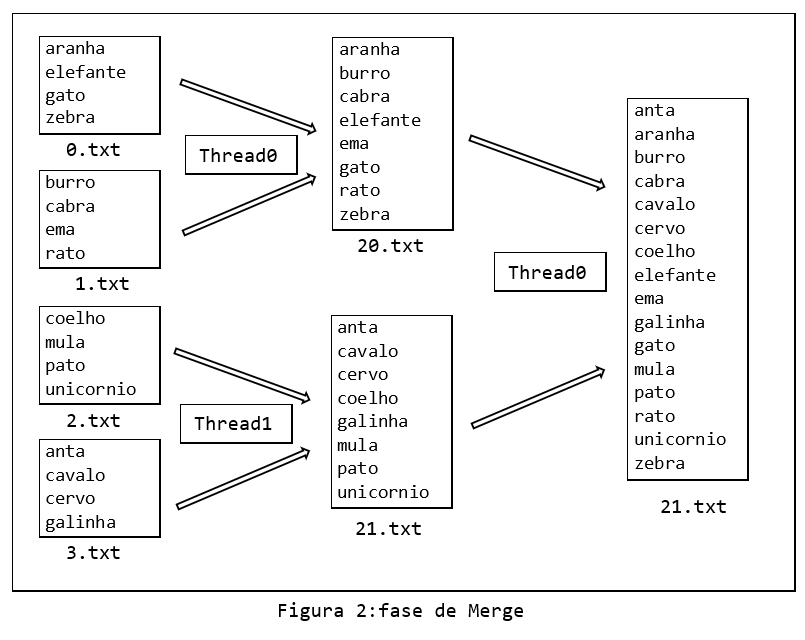
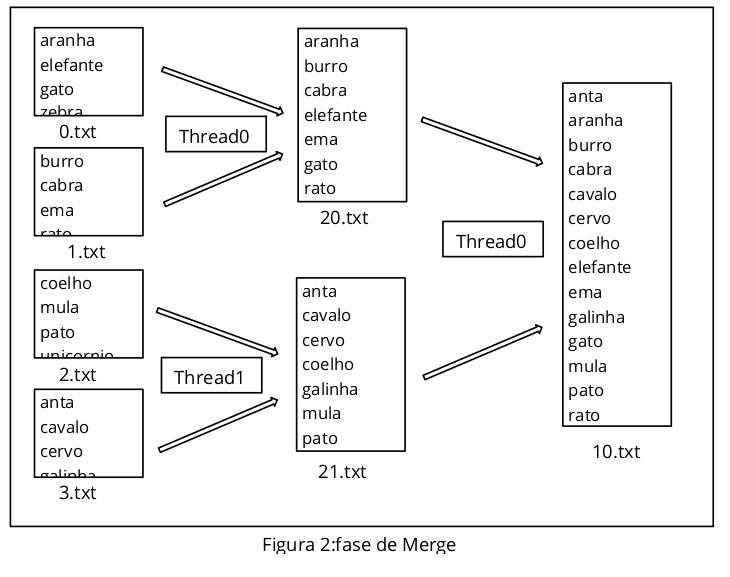
Lab-03 v3

Changed region(s): [[0.0, 0.0, 0.9945, 0.9671]]

diff --git a/material/labs/threads.md b/material/labs/threads.md
@@ -145,7 +145,9 @@ para realizar essa fase você deverá ter finalizado a fase de **`Sort`**, pois 
 
 * As threads nessa fase terão como entrada os ponteiros dos arquivos gerados na fase anterior. No programa   **`sort-merge.o`** poderá ver que os arquivos são passadas para as threads através de uma estrutura (`struct`).
 
-* Cada thread receberá dois ponteiro de arquivos da fase anterior e fará o merge (intercalação) dos dois arquivos e gerando um terceiro arquivo que será retornado para a função principal (**`main()`**) que usará esse arquivo para próxima iteração.
+* Cada thread receberá dois ponteiro de arquivos da fase anterior e fará o merge (intercalação) dos dois arquivos e gerando um terceiro arquivo que será retornado para a função principal (**`main()`**),  que usará esse arquivo para próxima iteração.
+
+* O **nome** do arquivo criado nessa fase deverá ter o seguinte formato = quantidade de threads que estão executanto simultanamente concatenado com o número da thread (veja a Figura 2). Por exemplo se tiverem  `2` threads executando simultaneamente a `Thread 0` gerará o arquivo `20.txt` e a `Thread 1 ` gerará o arquivo `21.txt`
 
 * Note na função  (**`main()`**) que a cada iteração o número de threads será reduzida pela metada, até que reste somente uma thread e assim é finalizada o merge.
 

diff --git a/material/sobre.md b/material/sobre.md
@@ -26,23 +26,12 @@
 | 19/04 | 10-processos | Github | 25/04 23h59 |
 | 19/04 | 11-exec | Github | 24/04 12h00 |
 | 19/04 | 12-entrada-saida | Github | 28/04 23h59 |
-<<<<<<< HEAD
 | 26/04 | 02-inspercoin | Github | 14/05 23h59 |
 | 15/05 | 03-lab thread | Github | 31/05 23h59 |
 <!--| 09/10 | 07-tad | Github | 21/10 23h59 |
 | 24/10 | 02-lab-processos | Github | 18/11 23h59 |
 | 16/11 | 08-barrier | Github | 27/11 23h59 | 
 | 16/11 | 08-barrier | Github | 27/11 23h59 | 
-=======
-| 26/04 | 02-inspercoin | Github | 18/05 15h30 |
-| 08/05 | 13-threads | Github | 18/05 15h30 |
-| 17/05 | 14-barrier | Github | 22/05 23h59 |
-| 22/05 | 03-lab threads | Github | 31/05 23h59 |
-<!--| 09/10 | 07-tad | Github | 21/10 23h59 |
-| 24/10 | 02-lab-processos | Github | 18/11 23h59 |
-| 16/11 | 14-barrier | Github | 27/11 23h59 | -->
-
->>>>>>> 1bf82a37855ee915f06241b0f2d87f5d21be2f94
 
 # Provas
 
